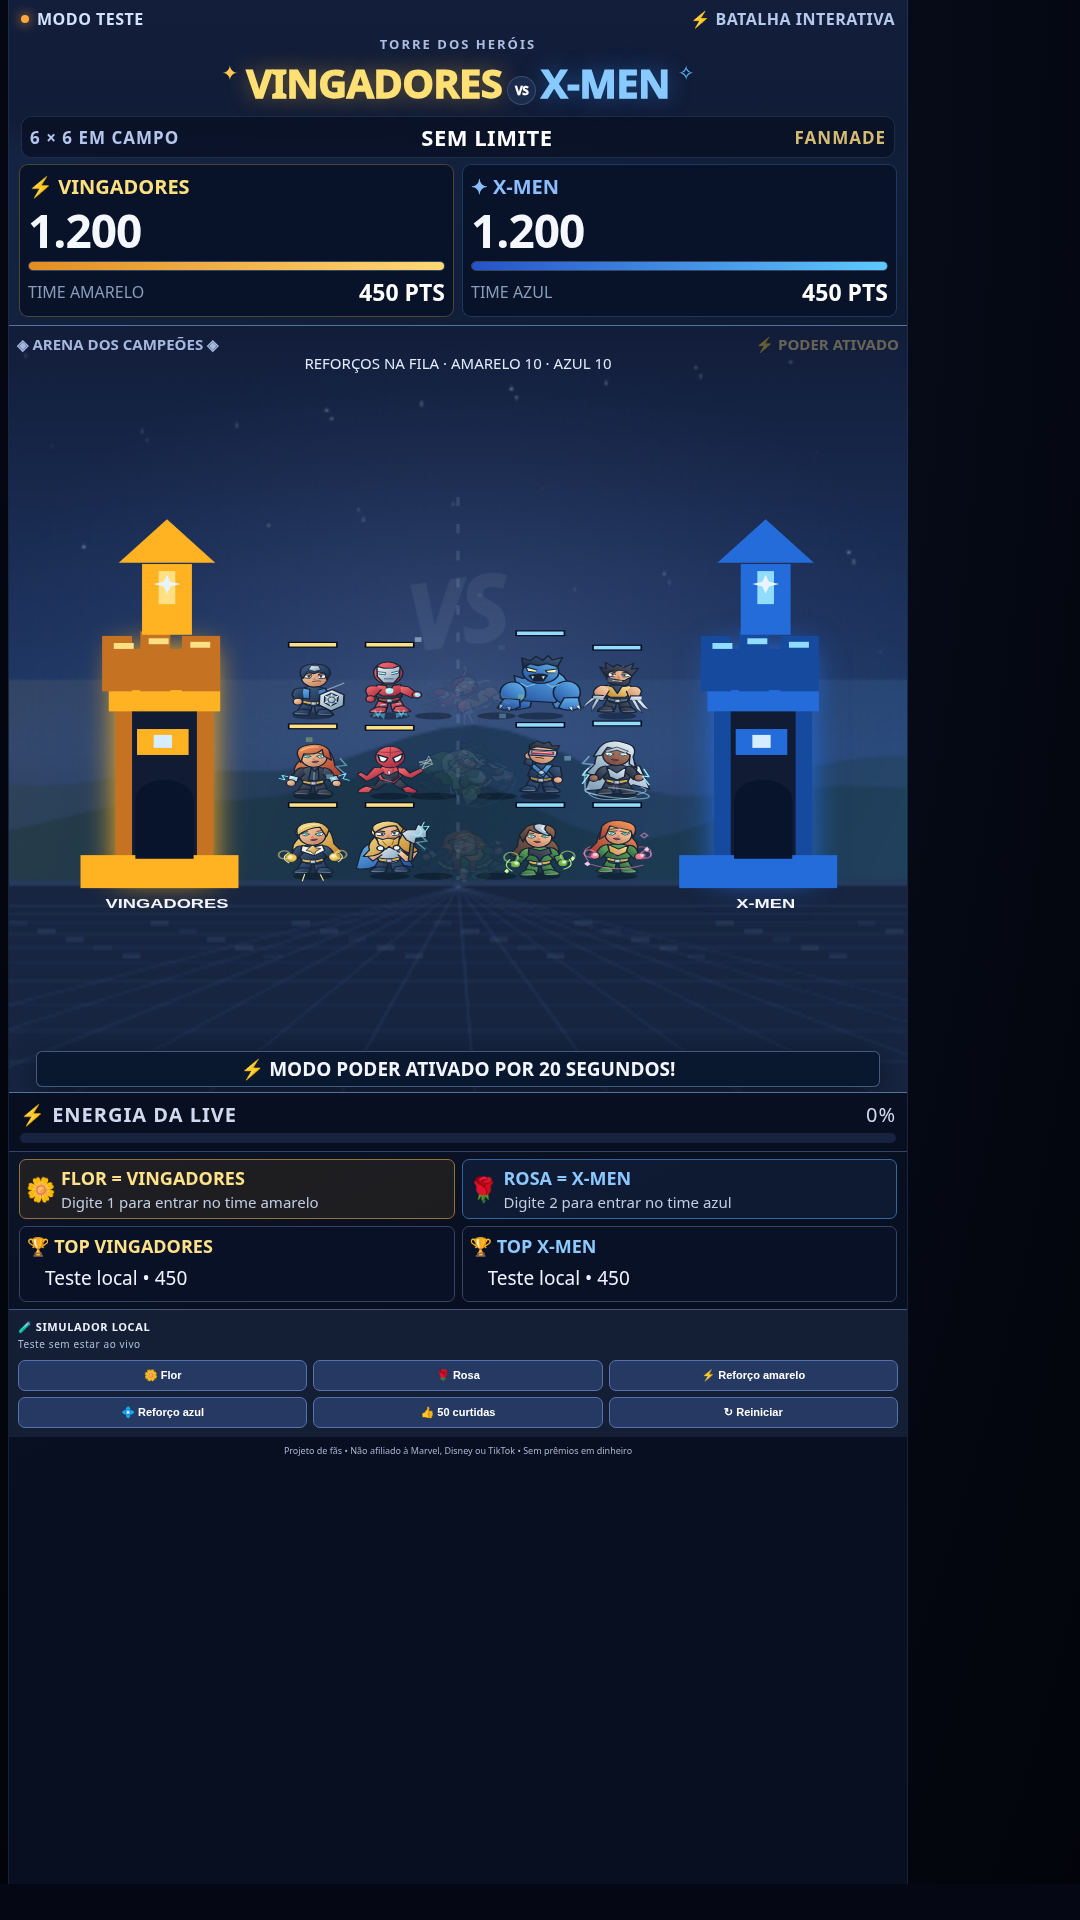
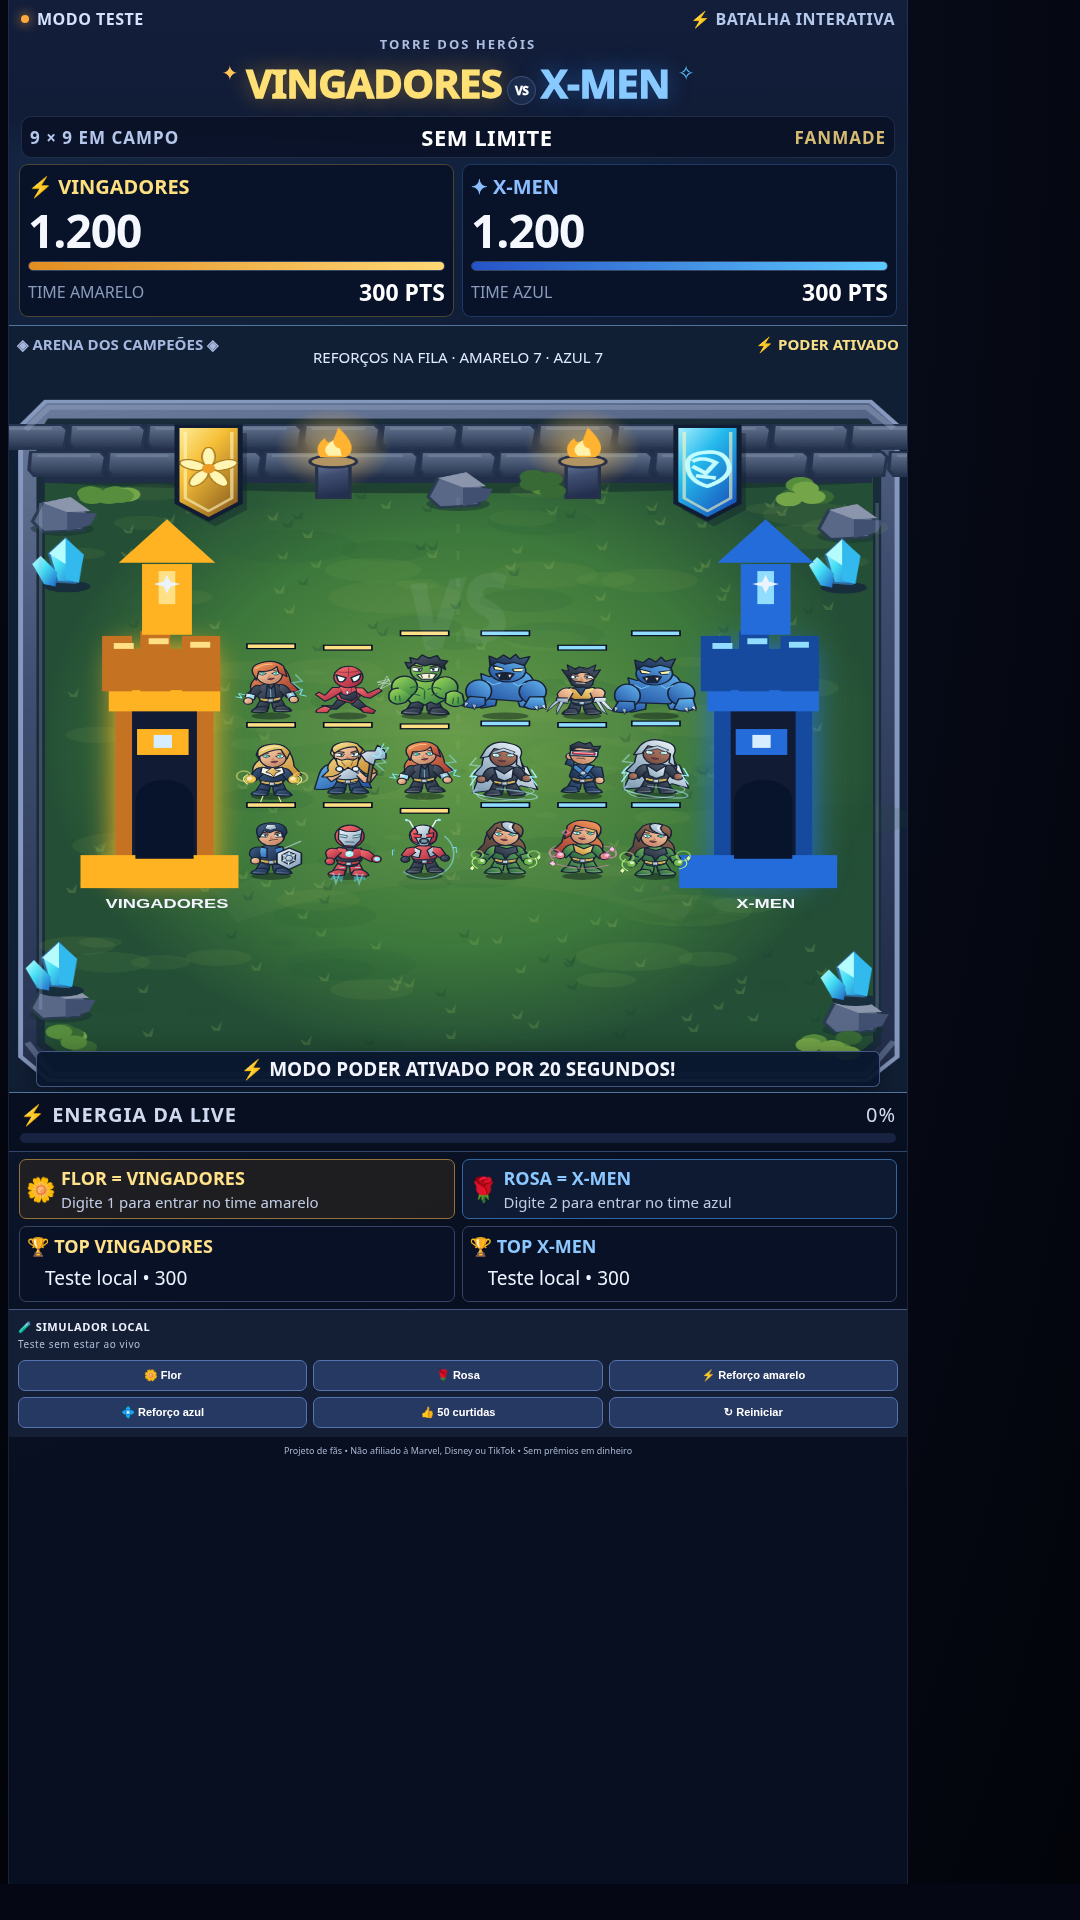
style: replace arena backdrop with illustrated fantasy garden

Changed region(s): [[0.0, 0.125, 0.8556, 0.5625]]

diff --git a/public/game.js b/public/game.js
@@ -151,39 +151,17 @@
     for (let x = 0; x <= W + 20; x += 20) ctx.lineTo(x, y + Math.sin(x * .017 + rise) * 22 + Math.cos(x * .031 + rise) * 12);
     ctx.lineTo(W, H); ctx.closePath(); ctx.fill();
   }
+  const arenaArtwork = window.Image ? new window.Image() : null;
+  if (arenaArtwork) arenaArtwork.src = "/assets/arena/garden.svg";
   function sky() {
     if (sky.cache) { ctx.drawImage(sky.cache, 0, 0, W, H); return; }
-    const grad = ctx.createLinearGradient(0, 0, 0, H);
-    grad.addColorStop(0, "#121d39"); grad.addColorStop(.55, "#213b6b"); grad.addColorStop(1, "#111a34");
-    ctx.fillStyle = grad; ctx.fillRect(0, 0, W, H);
-    const sun = ctx.createRadialGradient(270, 310, 3, 270, 310, 300);
-    sun.addColorStop(0, "#c4d1fa26"); sun.addColorStop(1, "#617cc400");
-    ctx.fillStyle = sun; ctx.fillRect(0, 0, W, 520);
-    for (let i = 0; i < 42; i++) {
-      const x = ((i * 1237) % 517) + 10, y = ((i * 139) % 260) + 25;
-      ctx.globalAlpha = .3 + .3 * Math.sin(tick * .022 + i * 13);
-      star(x, y, 1.8, "#daeaff");
+    if (!arenaArtwork?.complete || !arenaArtwork.naturalWidth) {
+      ctx.fillStyle = "#356338"; ctx.fillRect(0, 0, W, H); return;
     }
-    ctx.globalAlpha = 1;
-    hill("#1d3657", 370, 0.4); hill("#162f46", 403, 1.2);
-    const light = ctx.createLinearGradient(0, 310, W, 480);
-    light.addColorStop(0, "#ffd56b16"); light.addColorStop(.5, "#74c8df08"); light.addColorStop(1, "#6dbfff20");
-    ctx.fillStyle = light; ctx.fillRect(0, 300, W, 180);
-    ctx.fillStyle = "#172541"; ctx.fillRect(0, 471, W, 179);
-    ctx.fillStyle = "#263b5b"; ctx.fillRect(0, 470, W, 5);
-    for (let i = 0; i < 35; i++) {
-      const x = i * 17;
-      ctx.fillStyle = i % 3 ? "#293c5a" : "#203250";
-      ctx.fillRect(x, 505 + (i % 5) * 7, 11, 3);
-    }
-    ctx.strokeStyle = "#6385b51c"; ctx.lineWidth = 2;
-    for (let x = -200; x < 800; x += 80) { ctx.beginPath(); ctx.moveTo(270, 476); ctx.lineTo(x, H); ctx.stroke(); }
-    for (let y = 492; y < H; y += (y - 457) * .19) {
-      ctx.beginPath(); ctx.moveTo(0, y); ctx.lineTo(W, y); ctx.stroke();
-    }
+    ctx.drawImage(arenaArtwork, 0, 0, W, H);
     sky.cache = document.createElement("canvas");
-    sky.cache.width = W; sky.cache.height = H;
-    sky.cache.getContext("2d").drawImage(canvas, 0, 0, canvas.width, canvas.height, 0, 0, W, H);
+    sky.cache.width = W * 2; sky.cache.height = H * 2;
+    sky.cache.getContext("2d").drawImage(arenaArtwork, 0, 0, W * 2, H * 2);
   }
   function tower(team) {
     const left = team === "yellow"; const x = left ? 56 : 416;
@@ -243,7 +221,7 @@
     }
     sky();
     // Raio central decorativo, separação de campo.
-    ctx.save(); ctx.strokeStyle = "#bdd4ff25"; ctx.setLineDash([8, 15]); ctx.lineWidth = 2;
+    ctx.save(); ctx.strokeStyle = "#d5edb212"; ctx.setLineDash([8, 15]); ctx.lineWidth = 2;
     ctx.beginPath(); ctx.moveTo(270, 145); ctx.lineTo(270, 470); ctx.stroke(); ctx.restore();
     tower("yellow"); tower("blue");
     for (const sprite of sprites.values()) hero(sprite, now, delta);

diff --git a/public/style.css b/public/style.css
@@ -11,3 +11,5 @@ body{display:block}#app{width:calc(100% - clamp(42px,10vw,120px));max-width:900p
 .instructions{padding:7px 10px;gap:7px}.guide{padding:6px;gap:5px;border-radius:7px}.gift{font-size:24px}.guide strong{font-size:clamp(8px,2.5cqw,18px);white-space:normal}.guide small{font-size:clamp(8px,2.2cqw,15px);margin-top:2px}.ranking{padding:0 10px 7px;gap:7px}.ranking-col{padding:7px;border-radius:7px}.ranking h2{font-size:clamp(9px,2.5cqw,18px);letter-spacing:0}.ranking li{font-size:clamp(10px,2.8cqw,19px);color:#eef4ff}.ranking ol{min-height:20px}.demo{padding:9px}.demo-buttons{grid-template-columns:repeat(3,minmax(0,1fr))}.demo button{font-size:11px}footer{color:#a5b6d2}
 .gift-notice{position:absolute;top:48px;left:8%;right:8%;z-index:6;padding:7px 10px;background:#101c32f5;border:1px solid #ffe084;border-left:4px solid #ffe084;border-radius:8px;color:#fff5ce;font-size:clamp(11px,3cqw,21px);line-height:1.3;pointer-events:none;overflow-wrap:anywhere}.gift-notice.blue{border-color:#90ddff;color:#d8f3ff}.gift-notice small{display:block;color:white;font-size:.85em}.win-banner{top:20%;left:5%;right:5%;padding:14px 8px;font-size:clamp(19px,5cqw,38px);letter-spacing:.5px}.victory-countdown{position:absolute;top:48%;left:10%;right:10%;z-index:8;text-align:center;color:white;font-size:clamp(13px,4cqw,26px);font-weight:800;background:#08172de8;border-radius:8px;padding:8px;pointer-events:none}
 @media(prefers-reduced-motion:reduce){*,*::before,*::after{animation:none!important;transition:none!important}.power-active .battle-area{box-shadow:inset 0 0 24px #ffe27a20}}
+/* Keep the reinforcement caption clear of the garden's stone rim. */
+.combat-queue{top:21px}

diff --git a/docs/producao-prism.md b/docs/producao-prism.md
@@ -36,7 +36,7 @@ Como comparar:
 
 | Item | Valor |
 |---|---|
-| Impressão digital do código | `861880f207f5` |
+| Impressão digital do código | `36c44e65f2bf` |
 
 (Documentação e testes não entram na impressão digital, então commits que só mudam docs não alteram esse valor.)
 
@@ -115,3 +115,8 @@ Canvas com densidade limitada a 2, cenário estático em cache, partículas reap
 QA: `npm run check`, 21 testes e script existente `scripts/verify-characters.cjs`. Capturas novas em `visual-390x844.png`, `visual-720x1280.png`, `visual-1080x1920.png` e `visual-ip.png`; comparar com `duels-mobile.png`, `duels-arena.png` e `prism-iphone-ip.png`, mantidos sem alteração. Nas três resoluções, o limite inferior da arena ficou em 472/813/1093 px, abaixo dos limites seguros estimados de 591/896/1344 px. A margem é uma aproximação: a sobreposição do TikTok varia com aparelho e modo de captura.
 
 Não testados: iPhone físico, 60 fps em hardware móvel, PRISM, RTMP e live real. Sem deploy ou merge automático. A impressão digital da tabela acima corresponde à proposta visual, não à versão atualmente transmitida.
+
+
+### Revisão do cenário conforme a referência aprovada
+
+O céu abstrato e o piso de grade foram substituídos por um jardim de batalha verde com muralha de pedra, bandeiras botânicas dos times, tochas, rochas, vegetação e cristais. Arte vetorial original local em `public/assets/arena/garden.svg` (36 KB), sem imagens externas. A imagem é rasterizada uma vez em cache de 2×; torres e personagens não fazem parte do fundo, e suas posições/desenhos permanecem iguais. As capturas `visual-*` foram atualizadas para esta revisão. A fila foi posicionada acima da borda de pedra.
